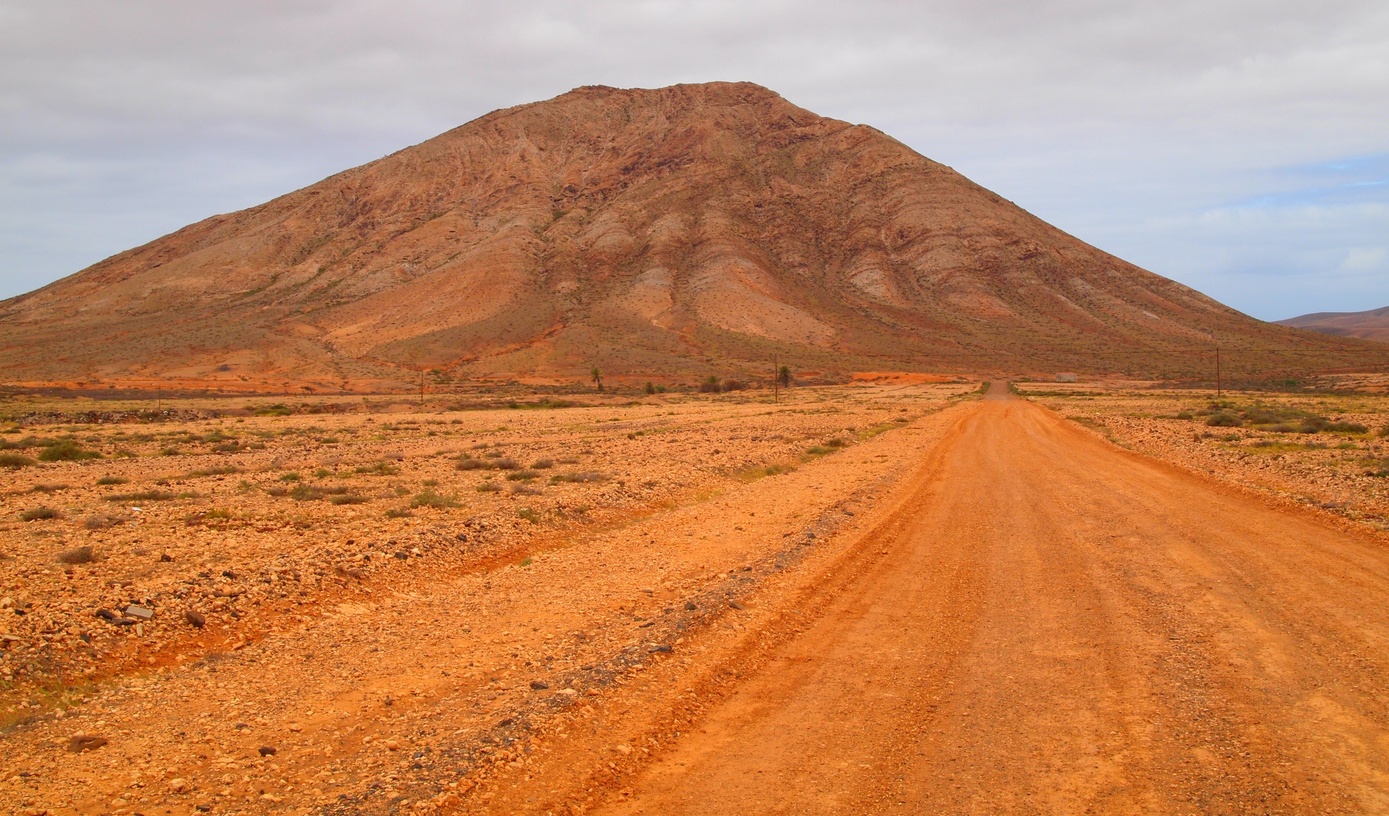
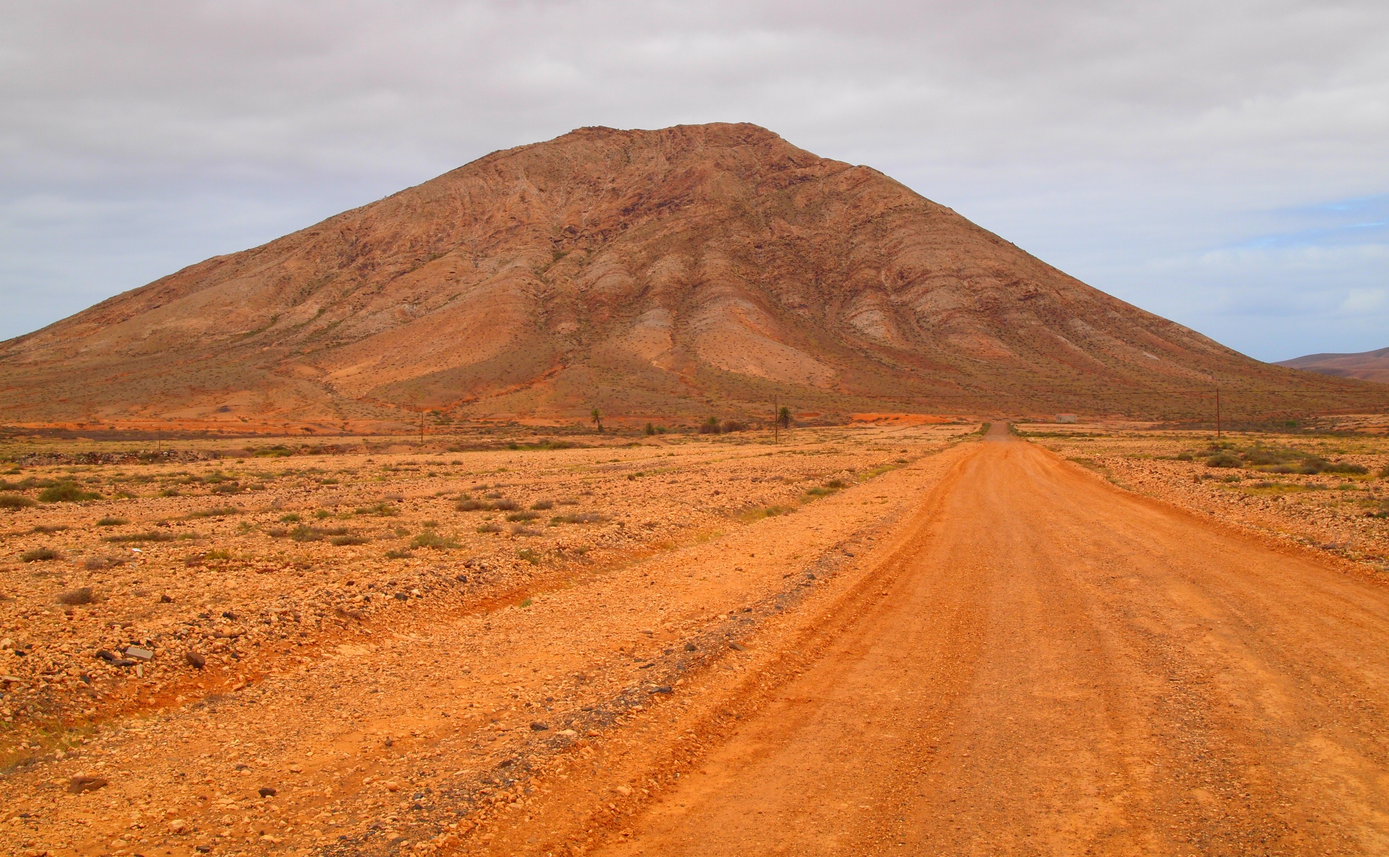
Actualización del CSS y nuevos archivos de imágenes

diff --git a/style.css b/style.css
@@ -644,7 +644,7 @@ form button:hover {
 
   .foto3 {
     bottom: 1.0625rem; /* 17px */
-    left: 1rem; /* 16px */
+    left: 5rem; /* 16px */
     transform: translateX(-50%);
   }
 }
